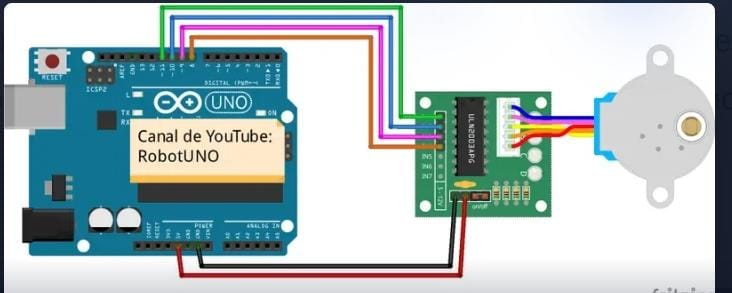
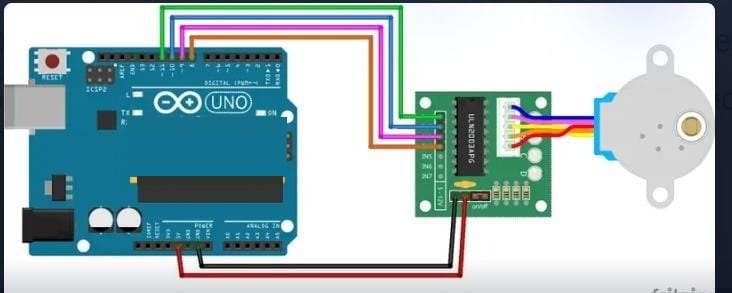
Ruleta: diagrama sin cartel y codigo comentado

Changed region(s): [[0.1503, 0.3993, 0.3907, 0.6451]]

diff --git a/js/proyectos.js b/js/proyectos.js
@@ -39,9 +39,9 @@ const PROYECTOS = [
     ],
     codigo: `#include <Servo.h>
 
-const int TRIG = 9;
-const int ECHO = 8;
-const int UMBRAL = 25;     // centimetros para abrir
+int TRIG = 9;
+int ECHO = 8;
+int UMBRAL = 25;     // centimetros para abrir
 
 Servo tapa;
 
@@ -97,10 +97,10 @@ void loop() {
     ],
     codigo: `#include <Servo.h>
 
-const int SENSOR = 2;
-const int LED_ROJO = 4;
-const int LED_VERDE = 5;
-const int BUZZER = 7;
+int SENSOR = 2;
+int LED_ROJO = 4;
+int LED_VERDE = 5;
+int BUZZER = 7;
 
 Servo puerta;
 bool estaAbierta = false;
@@ -140,9 +140,9 @@ void loop() {
     lema: "La matera avisa cuando tiene sed",
     categoria: "Sensor de suelo",
     descripcion:
-      "Un sensor enterrado en la matera mide la humedad del suelo y enciende un aviso cuando baja del umbral. Calibrarlo con tierra seca y tierra mojada fue la mejor clase de variables del proyecto.",
+      "Un sensor capacitivo enterrado en la matera mide la humedad del suelo y la muestra en porcentaje en una pantalla LCD. Un semáforo de LED y un buzzer indican si el suelo está seco, en estado óptimo o húmedo. Con los valores de lectura en seco y en agua, el programa convierte la señal del sensor en un porcentaje.",
     integrantes: ["Laura Fernanda Vargas Arias", "Sara Valentina Barreto Galindo"],
-    componentes: ["Arduino UNO", "Sensor de humedad de suelo", "3 LED (rojo, amarillo y verde)", "Resistencia", "Protoboard", "Matera de prueba"],
+    componentes: ["Arduino UNO", "Sensor de humedad de suelo capacitivo", "Pantalla LCD 16x2 con módulo I2C", "3 LED (verde, amarillo y rojo)", "Buzzer", "Protoboard", "Matera de prueba"],
     diagramaTexto:
       "Tres LED van a los pines digitales 12 (rojo), 10 (amarillo) y 9 (verde) y comparten una resistencia en la protoboard. El sensor de humedad de suelo se conecta con su VCC al pin A0, su señal (SIG) al pin A1 y su GND al GND del Arduino.",
     evidencias: [
@@ -150,44 +150,85 @@ void loop() {
       { titulo: "Semáforo de humedad", texto: "Los LED indican si la matera está seca, con buena humedad o demasiado húmeda." },
       { titulo: "Prueba en la matera", texto: "Enterramos el sensor y comprobamos que el buzzer avisa cuando hace falta regar." }
     ],
-    codigo: `const int SENSOR = A0;
-const int LED_SECO = 4;
-const int LED_BIEN = 5;
-const int LED_HUMEDO = 6;
-const int BUZZER = 8;
+    codigo: `#include <Wire.h>
+#include <LiquidCrystal_I2C.h>
 
-// Valores obtenidos calibrando en clase:
-const int TIERRA_SECA = 850;
-const int TIERRA_MOJADA = 350;
+// Dirección I2C típica: 0x27 o 0x3F
+LiquidCrystal_I2C lcd(0x27, 16, 2);
+
+// Definición de Pines
+const int pinSensor = A0;
+const int ledVerde  = 2;
+const int ledAmarillo = 3;
+const int ledRojo   = 4;
+const int buzzer    = 5;
+
+// CALIBRACIÓN DEL SENSOR CAPACITIVO
+// Mide el valor en seco (aire) y sumergido en agua para ajustar estas variables:
+const int valorSeco = 620;   // Valor de lectura en el aire
+const int valorHumedo = 310; // Valor de lectura sumergido en agua
 
 void setup() {
-  pinMode(LED_SECO, OUTPUT);
-  pinMode(LED_BIEN, OUTPUT);
-  pinMode(LED_HUMEDO, OUTPUT);
-  pinMode(BUZZER, OUTPUT);
-  Serial.begin(9600);
+  pinMode(ledVerde, OUTPUT);
+  pinMode(ledAmarillo, OUTPUT);
+  pinMode(ledRojo, OUTPUT);
+  pinMode(buzzer, OUTPUT);
+
+  // Inicializar Pantalla LCD
+  lcd.init();
+  lcd.backlight();
+  lcd.setCursor(0, 0);
+  lcd.print("Medidor Humedad");
+  lcd.setCursor(0, 1);
+  lcd.print("Iniciando...");
+  delay(2000);
+  lcd.clear();
 }
 
 void loop() {
-  int lectura = analogRead(SENSOR);
+  int lecturaRaw = analogRead(pinSensor);
 
-  // Se invierte el rango: mas humedad, menos resistencia
-  int humedad = map(lectura, TIERRA_SECA, TIERRA_MOJADA, 0, 100);
-  humedad = constrain(humedad, 0, 100);
+  // Convertir lectura analógica a porcentaje (0% a 100%)
+  int porcentajeHumedad = map(lecturaRaw, valorSeco, valorHumedo, 0, 100);
+  porcentajeHumedad = constrain(porcentajeHumedad, 0, 100);
 
-  Serial.print("Humedad: ");
-  Serial.print(humedad);
-  Serial.println(" %");
+  // Actualizar pantalla LCD
+  lcd.setCursor(0, 0);
+  lcd.print("Humedad: ");
+  lcd.print(porcentajeHumedad);
+  lcd.print("%   "); // Espacios para borrar dígitos sobrantes
 
-  digitalWrite(LED_SECO, humedad < 30);
-  digitalWrite(LED_BIEN, humedad >= 30 && humedad <= 70);
-  digitalWrite(LED_HUMEDO, humedad > 70);
+  lcd.setCursor(0, 1);
 
-  if (humedad < 30) {
-    tone(BUZZER, 880, 200);   // aviso de riego
+  // Lógica de Semáforo y Alerta
+  if (porcentajeHumedad < 30) {
+    // ESTADO SECO
+    lcd.print("Estado: SECO   ");
+    digitalWrite(ledRojo, HIGH);
+    digitalWrite(ledAmarillo, LOW);
+    digitalWrite(ledVerde, LOW);
+
+    // Pitido corto de advertencia
+    tone(buzzer, 1000, 200);
+  }
+  else if (porcentajeHumedad >= 30 && porcentajeHumedad <= 65) {
+    // ESTADO OPTIMO
+    lcd.print("Estado: OPTIMO ");
+    digitalWrite(ledRojo, LOW);
+    digitalWrite(ledAmarillo, HIGH);
+    digitalWrite(ledVerde, LOW);
+    noTone(buzzer);
+  }
+  else {
+    // ESTADO HUMEDO
+    lcd.print("Estado: HUMEDO ");
+    digitalWrite(ledRojo, LOW);
+    digitalWrite(ledAmarillo, LOW);
+    digitalWrite(ledVerde, HIGH);
+    noTone(buzzer);
   }
 
-  delay(1000);
+  delay(1000); // Lee cada 1 segundo
 }`
   },
 
@@ -241,53 +282,71 @@ void loop() {
     lema: "Cuánta agua queda, en tres colores",
     categoria: "Sensor de nivel",
     descripcion:
-      "Un sensor de nivel de agua mide qué tan lleno está un recipiente y lo traduce a un porcentaje. Tres LED indican nivel bajo, medio y alto, y un buzzer avisa cuando el recipiente está casi vacío.",
+      "Un sensor mide el nivel del agua de un vaso y lo muestra con cuatro LED: se encienden en orden, del rojo al azul, a medida que el agua sube. El programa convierte la lectura del sensor en un porcentaje con map() y usa un ciclo for para revisar los LED.",
     integrantes: ["Rafael Armando Jiménez Arias", "Manolo Steven Boyacá Jiménez"],
-    componentes: ["Arduino UNO", "Sensor de humedad usado como sensor de nivel", "4 LED (azul, verde, amarillo y rojo)", "Protoboard", "Vaso con agua"],
+    componentes: ["Arduino UNO", "Sensor de humedad usado como sensor de nivel", "4 LED (rojo, amarillo, verde y azul)", "Protoboard", "Vaso con agua"],
     diagramaTexto:
       "Un sensor de humedad funciona aquí como sensor de nivel dentro de un vaso con agua: su señal entra por el pin analógico A0 y su alimentación (VCC y GND) viene de la protoboard, que recibe los 5 V y el GND del Arduino. Cuatro LED indican el nivel: azul en el pin 5, verde en el 4, amarillo en el 3 y rojo en el 2.",
     evidencias: [
-      { titulo: "Montaje del sensor", texto: "Fijamos el sensor dentro del recipiente y conectamos los LED de nivel." },
-      { titulo: "Llenando el recipiente", texto: "Fuimos agregando agua poco a poco para ver cómo cambia la lectura y qué LED se enciende." },
-      { titulo: "Alarma de nivel bajo", texto: "Cuando el agua baja del 10 % el buzzer suena para avisar que casi no queda." }
+      { titulo: "Montaje del sensor", texto: "Fijamos el sensor dentro del vaso y conectamos los cuatro LED a la protoboard." },
+      { titulo: "Llenando el recipiente", texto: "Fuimos agregando agua poco a poco para ver cómo cambia la lectura en el Monitor Serie." },
+      { titulo: "LED según el nivel", texto: "Cuando el agua sube se encienden en orden el LED rojo, el amarillo, el verde y el azul." }
     ],
-    codigo: `const int SENSOR = A0;
-const int LED_BAJO = 4;
-const int LED_MEDIO = 5;
-const int LED_ALTO = 6;
-const int BUZZER = 8;
+    codigo: `// Medidor de agua con Arduino
+// El sensor mide el nivel del agua y los LED se encienden a medida que sube.
 
-const int LECTURA_VACIO = 0;      // sensor seco
-const int LECTURA_LLENO = 520;    // sensor sumergido (calibrar)
+int sensor = A0;      // señal del sensor
+int led1 = 2;         // LED rojo
+int led2 = 3;         // LED amarillo
+int led3 = 4;         // LED verde
+int led4 = 5;         // LED azul
+
+int lectura;          // valor que entrega el sensor
+int nivel;            // nivel de agua en porcentaje
 
 void setup() {
-  pinMode(LED_BAJO, OUTPUT);
-  pinMode(LED_MEDIO, OUTPUT);
-  pinMode(LED_ALTO, OUTPUT);
-  pinMode(BUZZER, OUTPUT);
+  pinMode(led1, OUTPUT);
+  pinMode(led2, OUTPUT);
+  pinMode(led3, OUTPUT);
+  pinMode(led4, OUTPUT);
   Serial.begin(9600);
 }
 
 void loop() {
-  int lectura = analogRead(SENSOR);
+  lectura = analogRead(sensor);              // lee el sensor (0 a 1023)
 
-  // Convierte la lectura en un porcentaje de 0 a 100
-  int nivel = map(lectura, LECTURA_VACIO, LECTURA_LLENO, 0, 100);
+  // map convierte la lectura en un porcentaje de 0 a 100.
+  // 0 = sensor seco, 876 = sensor sumergido (ajusta estos valores al calibrar)
+  nivel = map(lectura, 0, 876, 0, 100);
   nivel = constrain(nivel, 0, 100);
 
-  Serial.print("Nivel: ");
+  Serial.print("Lectura: ");
+  Serial.print(lectura);
+  Serial.print("  Nivel: ");
   Serial.print(nivel);
   Serial.println(" %");
 
-  digitalWrite(LED_BAJO, nivel < 30);
-  digitalWrite(LED_MEDIO, nivel >= 30 && nivel < 70);
-  digitalWrite(LED_ALTO, nivel >= 70);
+  // Primero se apagan todos los LED
+  digitalWrite(led1, LOW);
+  digitalWrite(led2, LOW);
+  digitalWrite(led3, LOW);
+  digitalWrite(led4, LOW);
 
-  if (nivel < 10) {
-    tone(BUZZER, 1000, 300);   // casi vacio
+  // Luego se encienden según el nivel del agua
+  if (nivel >= 10) {
+    digitalWrite(led1, HIGH);     // rojo: ya hay un poco de agua
+  }
+  if (nivel >= 35) {
+    digitalWrite(led2, HIGH);     // amarillo
+  }
+  if (nivel >= 60) {
+    digitalWrite(led3, HIGH);     // verde
+  }
+  if (nivel >= 85) {
+    digitalWrite(led4, HIGH);     // azul: casi lleno
   }
 
-  delay(500);
+  delay(500);   // espera medio segundo antes de volver a medir
 }`
   },
 
@@ -308,8 +367,8 @@ void loop() {
       { titulo: "Alarma activada", texto: "Al detectar movimiento, la sirena suena con luz intermitente y luego vuelve a vigilar." }
     ],
     codigo: `const int PIR = 2;
-const int LED = 13;
-const int BUZZER = 8;
+int LED = 13;
+int BUZZER = 8;
 
 void setup() {
   pinMode(PIR, INPUT);
@@ -361,8 +420,8 @@ void loop() {
 // DIN = 11, CLK = 13, CS = 10, una sola matriz
 LedControl matriz = LedControl(11, 13, 10, 1);
 
-const int PIN_X = A0;   // eje horizontal del joystick
-const int PIN_Y = A1;   // eje vertical del joystick
+int PIN_X = A0;   // eje horizontal del joystick
+int PIN_Y = A1;   // eje vertical del joystick
 
 int columna = 3;        // posicion inicial del punto
 int fila = 3;
@@ -406,11 +465,11 @@ void loop() {
     ],
     codigo: `#include <Servo.h>
 
-const int TRIG = 9;
-const int ECHO = 8;
-const int LED_ROJO = 4;
-const int LED_VERDE = 5;
-const int DISTANCIA_CARRO = 10;   // centimetros
+int TRIG = 9;
+int ECHO = 8;
+int LED_ROJO = 4;
+int LED_VERDE = 5;
+int DISTANCIA_CARRO = 10;   // centimetros
 
 Servo barrera;
 
@@ -468,8 +527,8 @@ void loop() {
     ],
     codigo: `#include <Servo.h>
 
-const int TRIG = 9;
-const int ECHO = 8;
+int TRIG = 9;
+int ECHO = 8;
 
 Servo base;
 
@@ -514,58 +573,29 @@ void loop() {
     lema: "El azar también se programa",
     categoria: "Aleatoriedad",
     descripcion:
-      "Doce LED en círculo que giran cada vez más lento hasta detenerse en uno. El grupo descubrió que random() siempre daba el mismo resultado hasta que aprendieron a sembrar la semilla con randomSeed().",
+      "Una ruleta movida por un motor paso a paso 28BYJ-48 con driver ULN2003. El programa usa random() para elegir cuántos pasos gira el motor, entre una y dos vueltas completas (2048 pasos es una vuelta), así que se detiene en un lugar distinto cada vez. Después de cinco segundos vuelve a girar.",
     integrantes: ["Carlos Adrián Silva Plazas", "David Fernando Plazas Fuentes"],
     componentes: ["Arduino UNO", "Motor paso a paso 28BYJ-48", "Driver ULN2003", "Jumpers", "Base de la ruleta"],
     diagramaTexto:
       "Este montaje mueve un motor paso a paso 28BYJ-48 con un driver ULN2003. Los cuatro pines de control del driver (IN1 a IN4) se conectan a los pines digitales 11, 10, 9 y 8 del Arduino, y el driver toma 5 V y GND directamente de la placa.",
     evidencias: [
-      { titulo: "Círculo de LED", texto: "Pegamos los 12 LED en la base circular y soldamos cada resistencia." },
-      { titulo: "El problema del azar", texto: "Descubrimos que random() repetía el resultado hasta que usamos randomSeed()." },
-      { titulo: "Ruleta girando", texto: "Al presionar el botón los LED giran, van más lento y se detienen en uno que parpadea." }
+      { titulo: "Motor y driver", texto: "Conectamos el motor paso a paso al driver ULN2003 y el driver a los pines 8, 9, 10 y 11 del Arduino." },
+      { titulo: "Pasos al azar", texto: "random() elige cuántos pasos gira el motor, entre una y dos vueltas completas." },
+      { titulo: "Ruleta girando", texto: "El motor gira, se detiene en un punto distinto cada vez y, cinco segundos después, vuelve a girar." }
     ],
-    codigo: `const int LEDS[] = {2, 3, 4, 5, 6, 7, 8, 9, 10, 11, 12, 13};
-const int TOTAL = 12;
-const int BOTON = A1;
+    codigo: `#include <Stepper.h>                  // librería para controlar motores paso a paso
+
+Stepper motor1(2048, 8, 10, 9, 11);   // motor de 2048 pasos por vuelta, conectado a los pines 8, 10, 9 y 11
 
 void setup() {
-  for (int i = 0; i < TOTAL; i++) {
-    pinMode(LEDS[i], OUTPUT);
-  }
-  pinMode(BOTON, INPUT_PULLUP);
-
-  // A0 esta al aire: su ruido sirve como semilla del azar
-  randomSeed(analogRead(A0));
-}
-
-void girar() {
-  int ganador = random(0, TOTAL);
-  int vueltas = 3 * TOTAL + ganador;
-  int pausa = 25;
-
-  for (int paso = 0; paso <= vueltas; paso++) {
-    int actual = paso % TOTAL;
-
-    digitalWrite(LEDS[(actual + TOTAL - 1) % TOTAL], LOW);
-    digitalWrite(LEDS[actual], HIGH);
-
-    delay(pausa);
-    pausa = pausa + 4;   // cada vuelta va mas lenta
-  }
-
-  // parpadeo del ganador
-  for (int i = 0; i < 6; i++) {
-    digitalWrite(LEDS[ganador], !digitalRead(LEDS[ganador]));
-    delay(180);
-  }
-  digitalWrite(LEDS[ganador], HIGH);
+  motor1.setSpeed(15);                // velocidad del motor: 15 vueltas por minuto
 }
 
 void loop() {
-  if (digitalRead(BOTON) == LOW) {
-    girar();
-    delay(500);
-  }
+  int x;                              // variable que guarda cuántos pasos va a girar
+  x=random(2048,2048*2);              // número al azar entre 2048 y 4095 (de una a dos vueltas)
+  motor1.step(x);                     // gira el motor esa cantidad de pasos
+  delay(5000);                        // espera 5 segundos antes de volver a girar
 }`
   },
 
@@ -591,9 +621,9 @@ Servo base;
 Servo hombro;
 Servo codo;
 
-const int POT_BASE = A0;
-const int POT_HOMBRO = A1;
-const int POT_CODO = A2;
+int POT_BASE = A0;
+int POT_HOMBRO = A1;
+int POT_CODO = A2;
 
 void setup() {
   base.attach(3);
